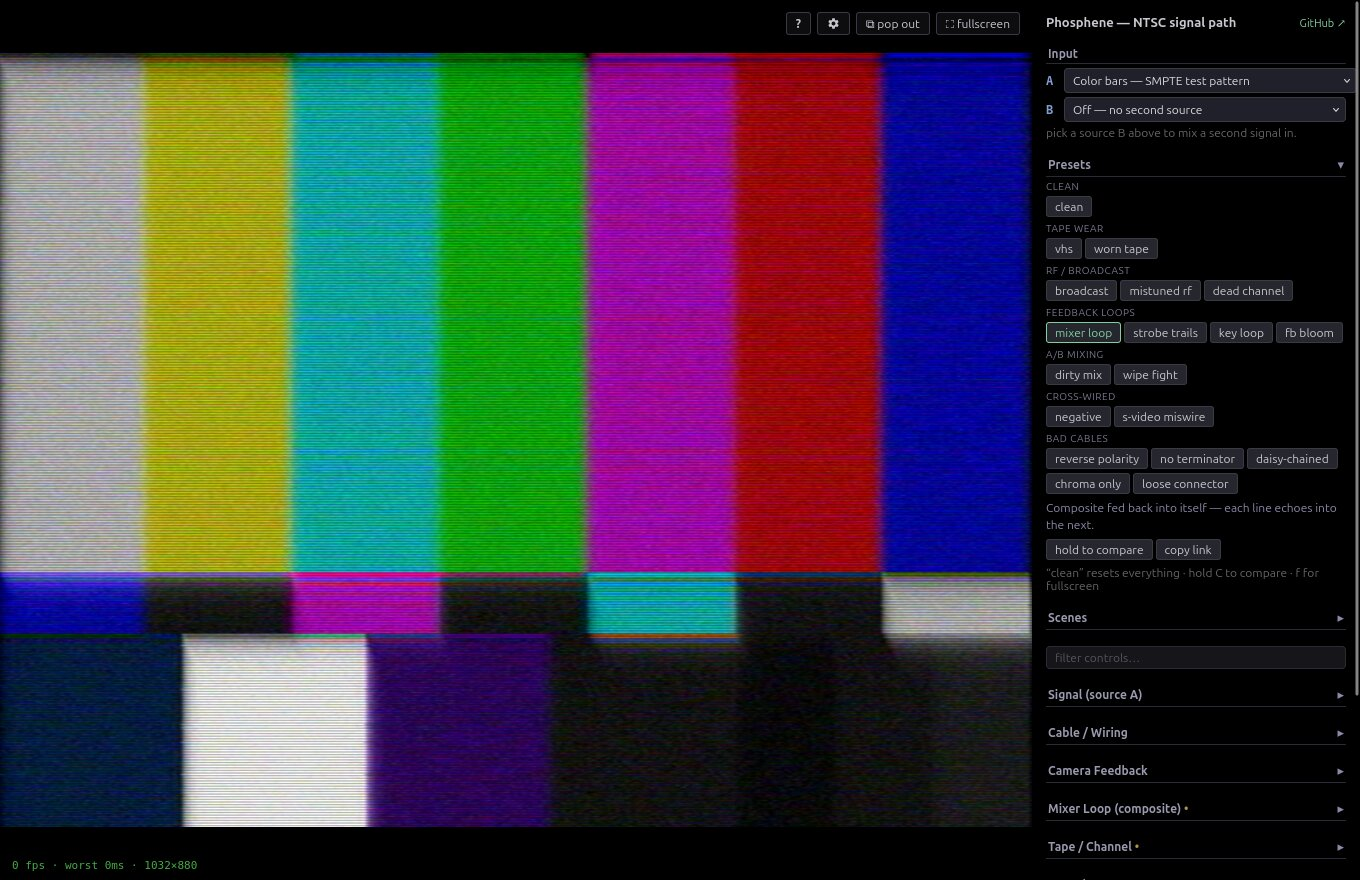
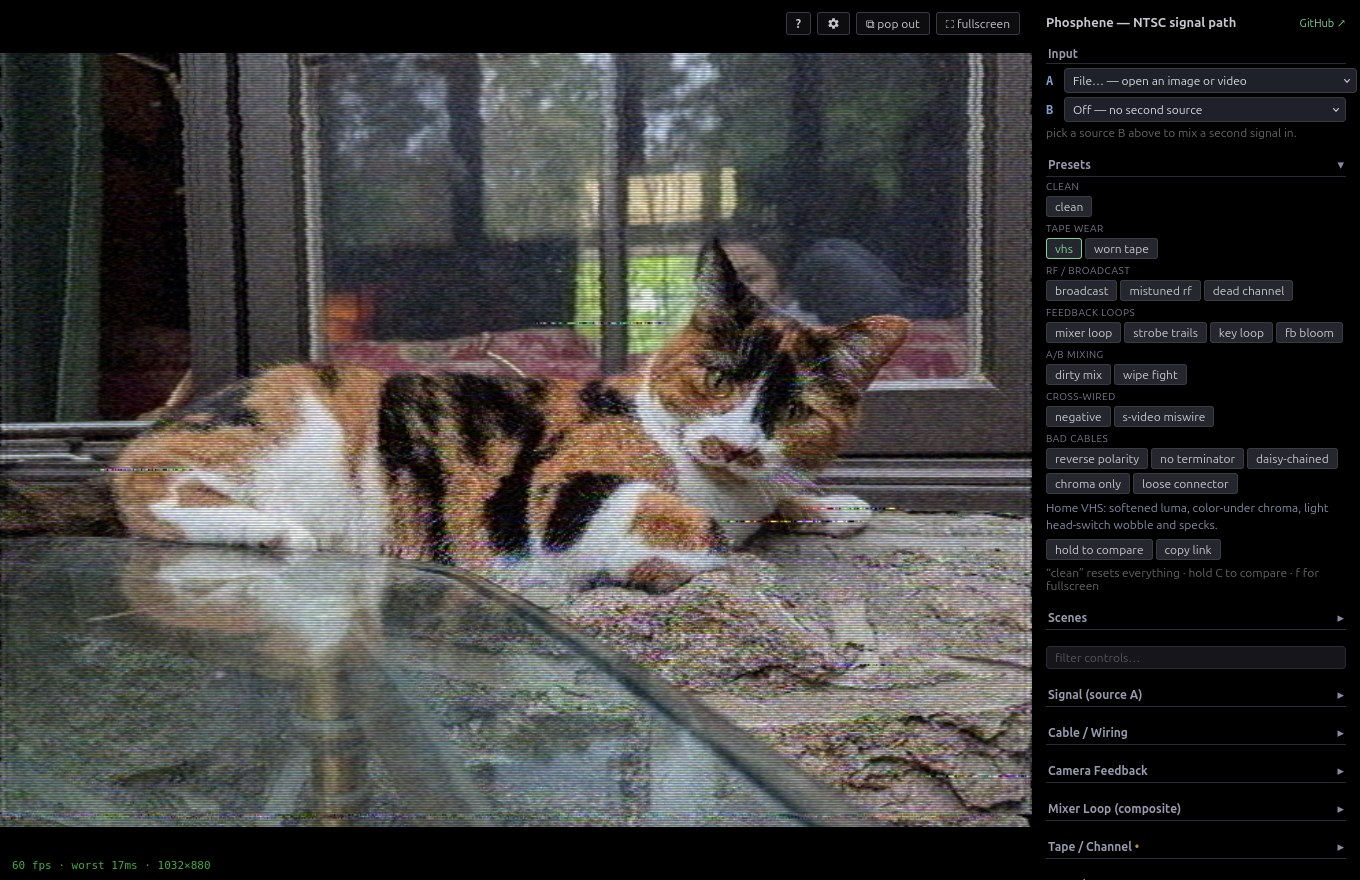
Add motion demo: cat hero, and a clip on the no-WebGPU screen
- Hero is now a real photo dubbed to VHS shown inside the app with its full
  control panel, instead of the SMPTE-bars screenshot
- Add public/demo.mp4 (a 6s VHS-path clip) + poster, and play it on the
  no-WebGPU FatalScreen so visitors without WebGPU see what it does instead of
  hitting a text wall; README links the clip and the live demo
- Drop the accidentally-committed ad-hoc capture script

(GIF was rejected: scanline/noise content produces 8-14 MB GIFs; MP4 is ~1.7 MB
for far better quality.)

Claude-Session: https://claude.ai/code/session_01P6WjGG9U7TBpZTyzrSTC7E

diff --git a/src/ui/FatalScreen.tsx b/src/ui/FatalScreen.tsx
@@ -16,10 +16,19 @@ export function FatalScreen({ fatal }: { fatal: Fatal }) {
         <p style={{ margin: '0 0 14px' }}>{fatal.body}</p>
         {fatal.kind === 'unavailable' ? (
           <>
+            <video
+              className={styles.fatalVideo}
+              src={`${import.meta.env.BASE_URL}demo.mp4`}
+              poster={`${import.meta.env.BASE_URL}demo-poster.jpg`}
+              autoPlay
+              muted
+              loop
+              playsInline
+            />
             <p className={shared.muted} style={{ margin: '0 0 14px' }}>
-              This app renders the entire NTSC signal path in WebGPU compute
-              shaders, so a WebGPU-capable browser with working hardware
-              acceleration is required — there is no 2D-canvas fallback.
+              Here's what it does. This app renders the entire NTSC signal path
+              in WebGPU compute shaders, so a WebGPU-capable browser with working
+              hardware acceleration is required — there is no 2D-canvas fallback.
             </p>
             <p className={shared.muted} style={{ margin: 0 }}>
               Check support at{' '}

diff --git a/src/ui/FatalScreen.module.css b/src/ui/FatalScreen.module.css
@@ -30,3 +30,11 @@
   margin: 0 0 12px;
   color: #f66;
 }
+.fatalVideo {
+  display: block;
+  width: 100%;
+  margin: 0 0 16px;
+  border: 1px solid #3a3a44;
+  border-radius: 6px;
+  background: #000;
+}

diff --git a/README.md b/README.md
@@ -20,7 +20,10 @@ feedback loops as well (a camera pointed at its own monitor, and a
 hardware-mixer loop), and you can dirty-mix in a second source. All in WebGPU
 compute shaders, in real time.
 
-![Phosphene — mixer-loop feedback on SMPTE bars](docs/gallery/hero.jpg)
+![A photo dubbed to VHS inside the Phosphene app, alongside its full control panel](docs/gallery/hero.jpg)
+
+<sub>▶ **In motion:** [watch a 6-second clip](public/demo.mp4) · or open the
+[live demo](https://cmdcolin.github.io/phosphene/) and load your own footage.</sub>
 
 ## Gallery
 